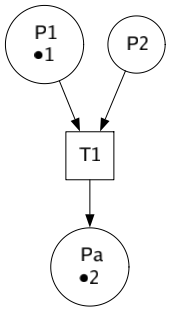
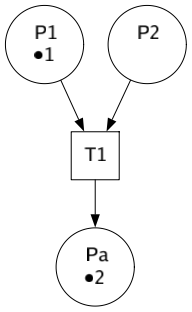
added legend to animation

diff --git a/petrinet/net.go b/petrinet/net.go
@@ -1,12 +1,15 @@
 package petrinet
 
 import (
+	"bytes"
 	"fmt"
 	"image"
 	"image/color/palette"
 	"image/draw"
 	"image/gif"
+	"image/png"
 	"os"
+	"strings"
 
 	"github.com/goccy/go-graphviz"
 )
@@ -15,7 +18,7 @@ type Net struct {
 	id          string
 	places      []PlaceI
 	transitions []TransitionI
-	frames      []image.Image // animation frames
+	dots        []string // sequence of graphviz in dot format
 }
 
 func NewNet(id string) *Net {
@@ -78,6 +81,9 @@ func buildDot(n *Net) string {
 	return `
 digraph PetriNet { 
 
+	/* Image legend */
+	graph [labeljust="l" label="%LEGEND%"]{}
+
 	/* Place Entities */
 	{ node [shape=circle]
 ` + places + `
@@ -97,20 +103,31 @@ func (n *Net) SavePng(filename string) {
 	dot := buildDot(n)
 	//logger.Println(dot)
 
-	graph, err := graphviz.ParseBytes([]byte(dot))
+	img := dot2image(dot, map[string]string{"%LEGEND%": ""})
+	buf := new(bytes.Buffer)
+	err := png.Encode(buf, img)
 	if err != nil {
 		logger.Fatal(err)
 	}
-	g := graphviz.New()
-	err = g.RenderFilename(graph, graphviz.PNG, filename)
+
+	fo, err := os.Create(filename)
 	if err != nil {
 		logger.Fatal(err)
 	}
+	fo.Write(buf.Bytes())
+	fo.Close()
 }
 
 func (n *Net) AddAnimationFrame() {
 	dot := buildDot(n)
 	//logger.Println(dot)
+	n.dots = append(n.dots, dot)
+}
+func dot2image(dot string, params map[string]string) image.Image {
+	// replace placeholders with actual values
+	for k, v := range params {
+		dot = strings.Replace(dot, k, v, -1)
+	}
 
 	graph, err := graphviz.ParseBytes([]byte(dot))
 	if err != nil {
@@ -121,13 +138,18 @@ func (n *Net) AddAnimationFrame() {
 	if err != nil {
 		logger.Fatal(err)
 	}
-	n.frames = append(n.frames, img)
+	return img
 }
 
 func (n *Net) SaveAnimationAsGif(filename string) {
+	frames := make([]image.Image, len(n.dots))
+	for i, dot := range n.dots {
+		frames[i] = dot2image(dot, map[string]string{"%LEGEND%": fmt.Sprintf("\nFrame %d/%d", i+1, len(n.dots))})
+	}
+
 	outGif := &gif.GIF{}
 	outGif.Config = image.Config{}
-	for _, img := range n.frames {
+	for _, img := range frames {
 		// convert image to paletted
 		palettedImage := image.NewPaletted(img.Bounds(), palette.Plan9)
 		draw.Draw(palettedImage, palettedImage.Rect, img, img.Bounds().Min, draw.Over)
